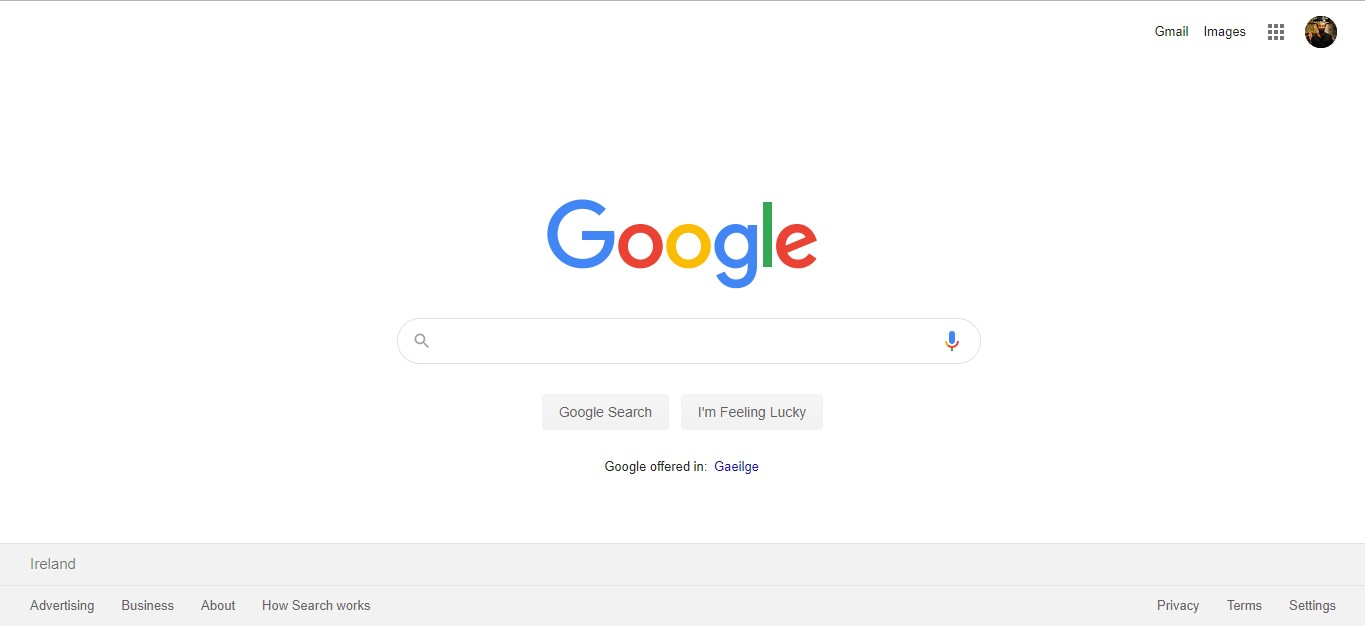
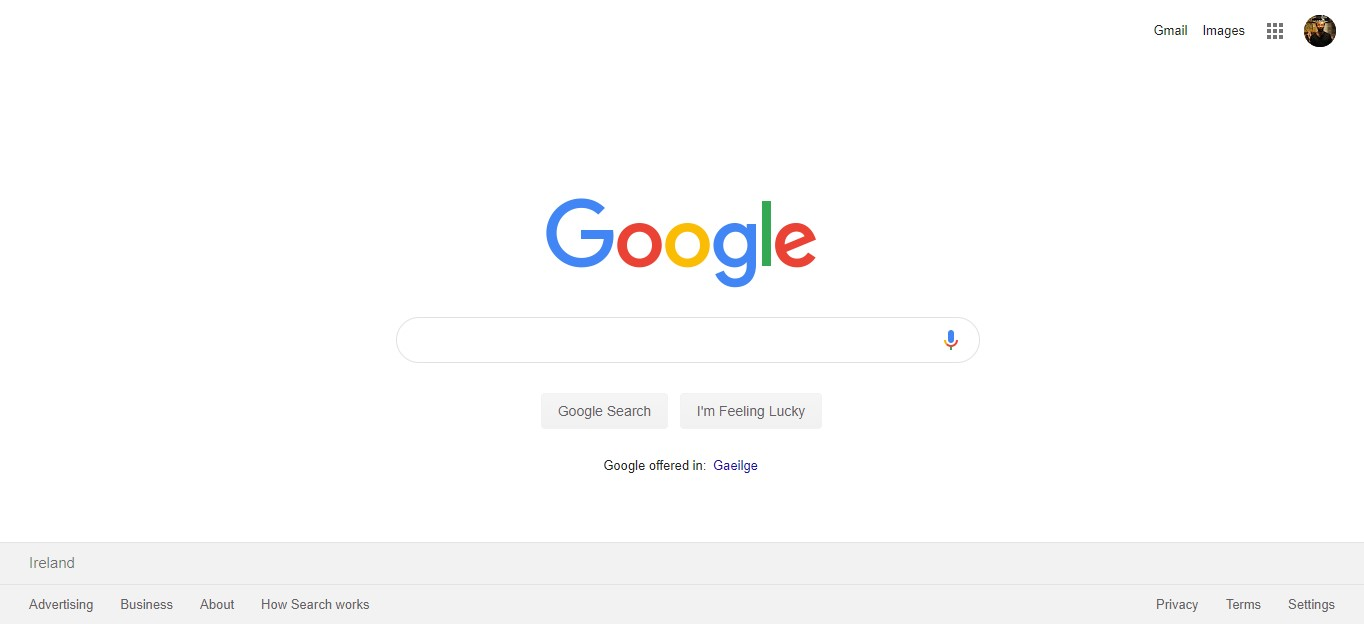
Finish css header

diff --git a/index.html b/index.html
@@ -13,16 +13,12 @@
     <div></div>
     <div class="container">
         <div class="section a top-sec">
-            <div class="top-sub b">
-                <p>Gmail</p>
-            </div>
-            <div class="top-sub b">
-                <p>Images</p>
-            </div>
-            <div class="top-sub b">
+            <p class="top-sub b">Gmail</p>
+            <p class="top-sub b">Images</p>
+            <div class="top-sub b grid">
                 <img src="./img/grid.png" alt="grid">
             </div>
-            <div class="top-sub b">
+            <div class="top-sub b avatar">
                 <img src="./img/avatar.jpg" alt="avatar">
             </div>
         </div>

diff --git a/styles.css b/styles.css
@@ -54,5 +54,32 @@ table {
 .container {
 	display: flex;
 	flex-direction: column;
+	justify-content: space-between;
 }
+
+.container div {
+	padding: 15px 0;
+}
+
+.top-sec {
+	display: flex;
+	flex-flow: row wrap;
+	justify-content: flex-end;
+	align-items: center;
+}
+
+.top-sec p, .top-sec div {
+	padding: 0 10px;
+}
+
+.top-sec img {
+	max-width: 20px;
+	height: auto;
+}
+
+.top-sec .avatar img {
+	max-width: 40px;
+	height: auto;
+}
+
 
